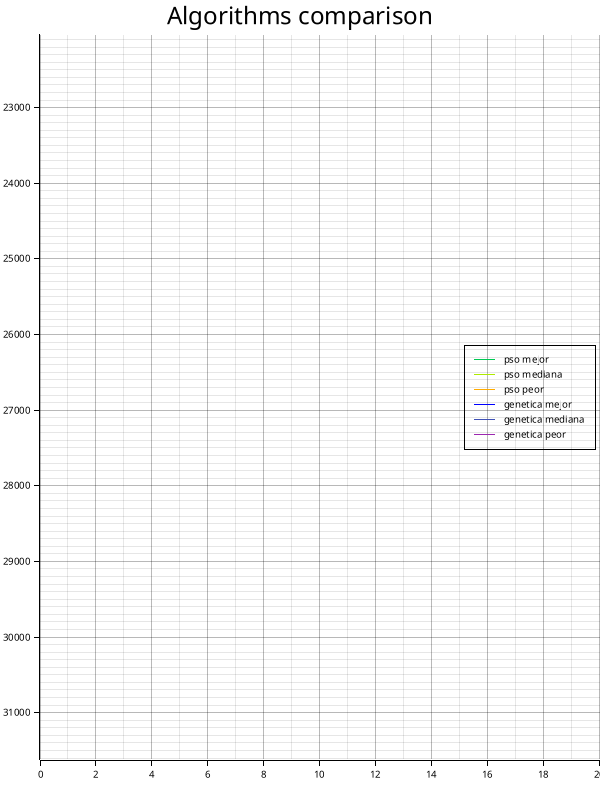
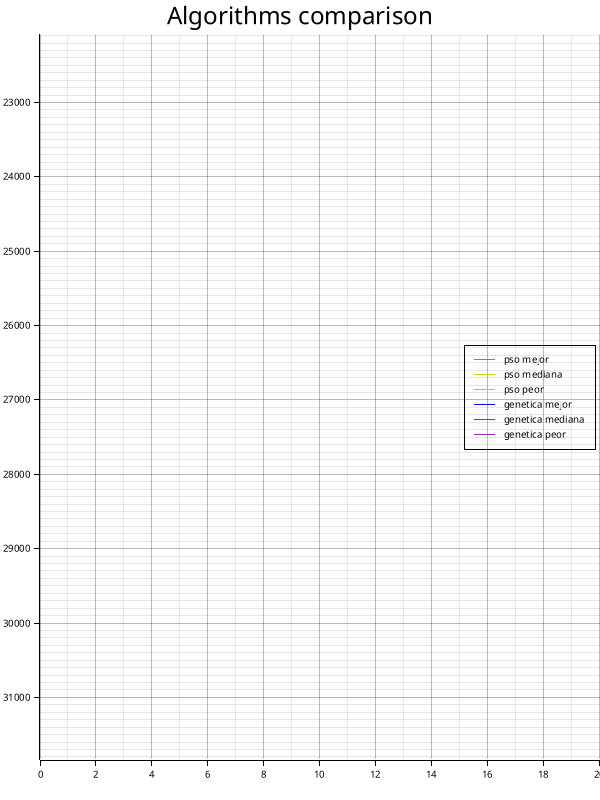
agregada variación estándar y media

diff --git a/src/main.rs b/src/main.rs
@@ -22,6 +22,16 @@ fn main() {
     let genetic_stats = genetic::evolve(&mut generate_initial_population(), constraints);
     let pso_stats = pso::evolve(generate_initial_population());
 
+    println!(
+        "std deviation genetic {}",
+        statistical::standard_deviation(&genetic_stats.best, None)
+    );
+    println!(
+        "std deviation pso {}",
+        statistical::standard_deviation(&pso_stats.best, None)
+    );
+    println!("mean genetic {}", statistical::mean(&genetic_stats.best));
+    println!("mean pso {}", statistical::mean(&pso_stats.best));
     plotter::plot_comparison(&pso_stats, &genetic_stats);
     create_csv(pso_stats, genetic_stats).expect("Error al crear el archivo csv");
 }
